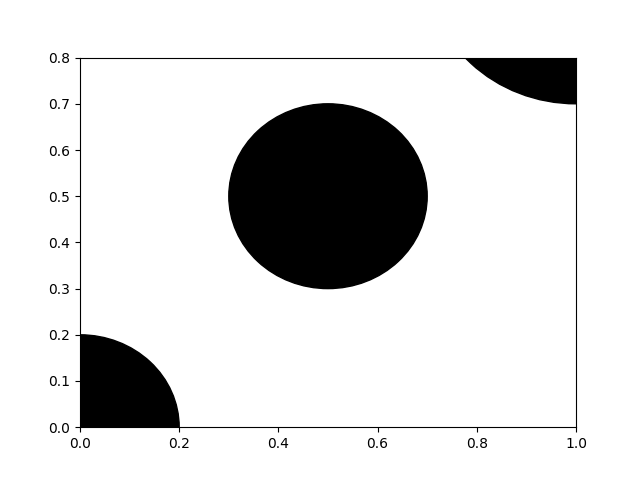
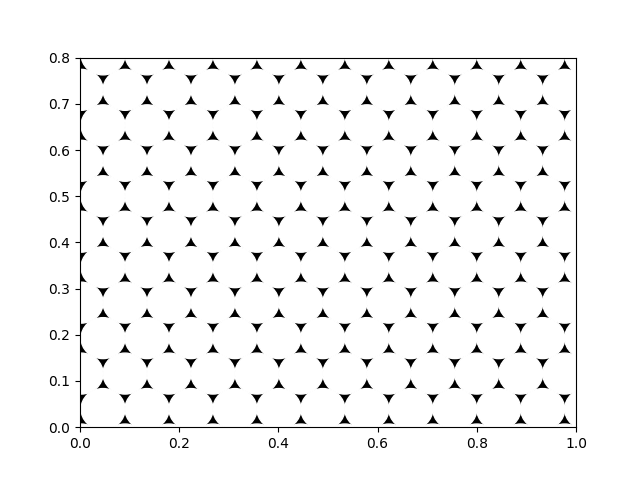
circle generation in window, random angle setup

diff --git a/generate.py b/generate.py
@@ -2,23 +2,44 @@ import numpy as np
 import matplotlib.pyplot as plt
 import scipy as sp
 
-r = 0.01+0.04*np.random.rand(1)  # random radius between 0.01 and 0.05
+r = 0.01+0.04*np.random.rand()  # random radius between 0.01 and 0.05
 print(r)
+width = 1
+height = 0.8
 
-circle1 = plt.Circle((0, 0), 0.2, color='black')
-circle2 = plt.Circle((0.5, 0.5), 0.2, color='black')
-circle3 = plt.Circle((1, 1), 0.3, color='black') 
 
 fig, ax = plt.subplots() # note we must use plt.subplots, not plt.subplot
 # (or if you have an existing figure)
 # fig = plt.gcf()
 # ax = fig.gca()
 
-ax.set_xlim((0, 1))
-ax.set_ylim((0, 0.8))
+rand_angle = 2*np.pi*np.random.rand()/6 #random angle for the window, one sixth because of the hexagonal pattern
+print(rand_angle)
+rand_angle = 0
 
-ax.add_patch(circle1)
-ax.add_patch(circle2)
-ax.add_patch(circle3)
+rand_x = r*(1-2*np.random.rand()) #random starting position for the first circle, between -r and r
+rand_y = r*(1-2*np.random.rand())
+i = rand_x
+j = rand_y-r 
+k = 0 #shift for the first row, to create the hexagonal pattern
+
+while j-r < height: # -r to plot cutoff circles
+    while i-r < width:
+        circle = plt.Circle((i, j), r, color='white')
+        ax.add_patch(circle)
+        i += 2*r*np.cos(rand_angle) #hexgrid distance in width
+        j += 2*r*np.sin(rand_angle)
+    k += 1
+    i = rand_x #reset position
+    j = rand_y-r
+    i += -k*r #reset position of the first circle in the next row, shifted by r to create the hexagonal pattern
+    j += k*np.sqrt(3)*r#*np.sin(rand_angle) #hexgrid distance in height
+
+
+
+ax.set_xlim((0, width))
+ax.set_ylim((0, height))
+
+ax.set_facecolor('black')
 
 fig.savefig('plotcircles.png')